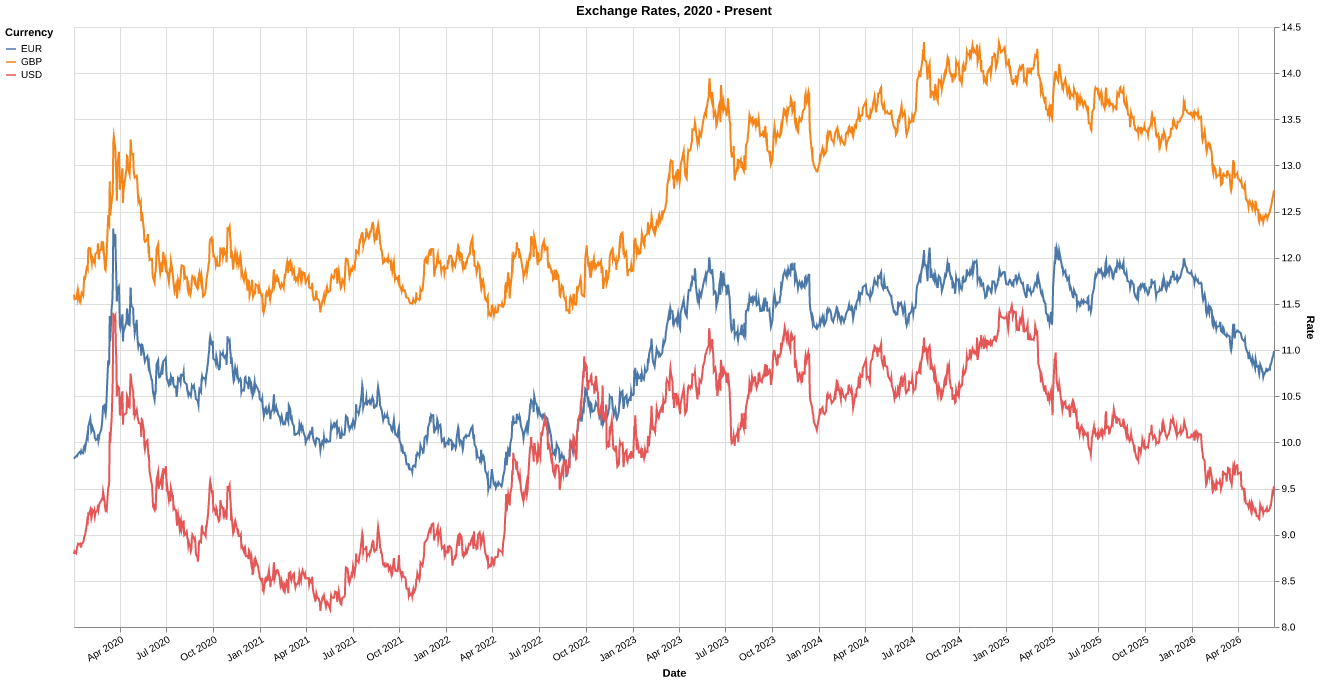
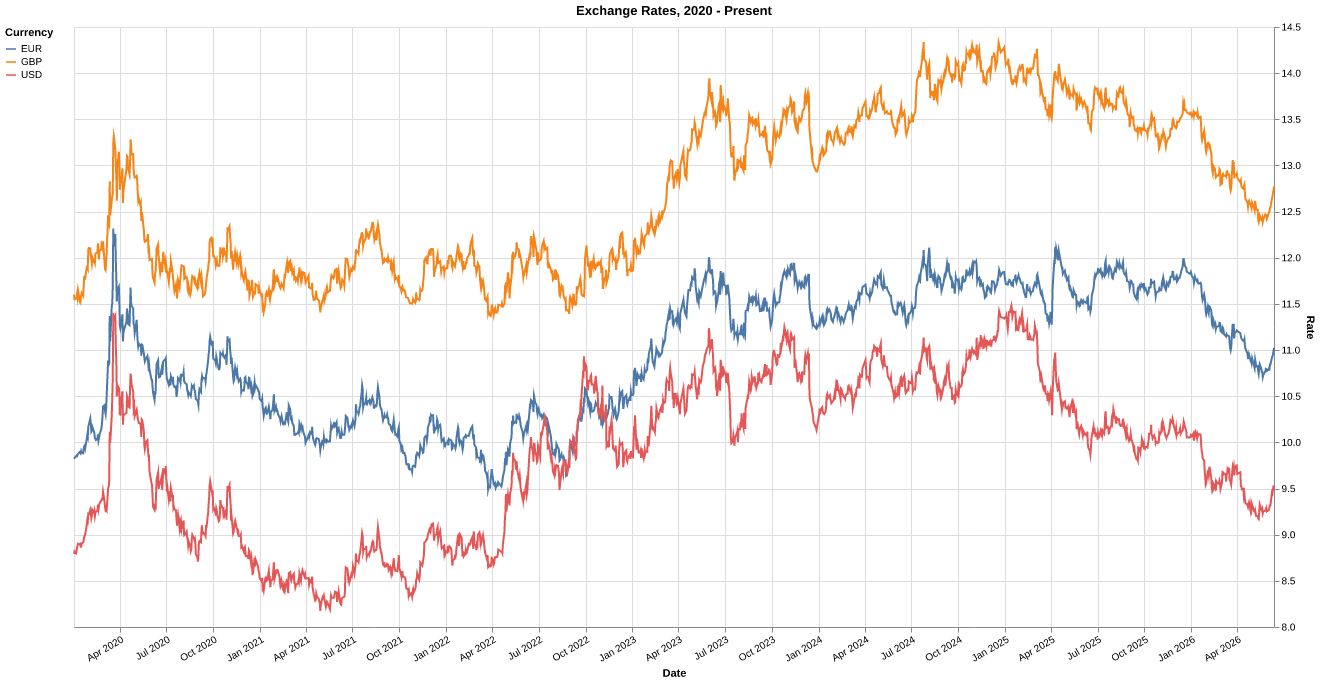
Scheduled data update

diff --git a/README.md b/README.md
@@ -12,10 +12,10 @@ The datasets in this repository are automaticly updated every day at **2:05 AM**
 <!-- table starts -->
 |Dataset|Source|Date Range|Updated|Download|Preview|
 | :--- | :--- | :--- | :--- | :--- | :--- |
-|[Mortgage](#mortgage)|Finansportalen|2021 - Present|2026-06-12|[<center>csv</center>](https://raw.githubusercontent.com/frefrik/norway-finance-statistics/master/data/no_mortgage.csv)|[<center>preview</center>](data/no_mortgage.csv)|
+|[Mortgage](#mortgage)|Finansportalen|2021 - Present|2026-06-13|[<center>csv</center>](https://raw.githubusercontent.com/frefrik/norway-finance-statistics/master/data/no_mortgage.csv)|[<center>preview</center>](data/no_mortgage.csv)|
 |[Key policy rate](#key-policy-rate)|Norges Bank|1991 - Present|2026-06-12|[<center>csv</center>](https://raw.githubusercontent.com/frefrik/norway-finance-statistics/master/data/no_keyPolicyRate.csv)|[<center>preview</center>](data/no_keyPolicyRate.csv)|
-|[NOWA](#nowa---norwegian-overnight-weighted-average)|Norges Bank|2011 - Present|2026-06-12|[<center>csv</center>](https://raw.githubusercontent.com/frefrik/norway-finance-statistics/master/data/no_nowa.csv)|[<center>preview</center>](data/no_nowa.csv)|
-|[Exchange Rates](#exchange-rates)|Norges Bank|1980 - Present|2026-06-12|[<center>csv</center>](https://raw.githubusercontent.com/frefrik/norway-finance-statistics/master/data/no_exchangeRates.csv)|[<center>preview</center>](data/no_exchangeRates.csv)|
+|[NOWA](#nowa---norwegian-overnight-weighted-average)|Norges Bank|2011 - Present|2026-06-13|[<center>csv</center>](https://raw.githubusercontent.com/frefrik/norway-finance-statistics/master/data/no_nowa.csv)|[<center>preview</center>](data/no_nowa.csv)|
+|[Exchange Rates](#exchange-rates)|Norges Bank|1980 - Present|2026-06-13|[<center>csv</center>](https://raw.githubusercontent.com/frefrik/norway-finance-statistics/master/data/no_exchangeRates.csv)|[<center>preview</center>](data/no_exchangeRates.csv)|
 |[Inflation Indicators (CPI)](#inflation-indicators-cpi)|Norges Bank|2006 - Present|2026-06-10|[<center>csv</center>](https://raw.githubusercontent.com/frefrik/norway-finance-statistics/master/data/no_cpi.csv)|[<center>preview</center>](data/no_cpi.csv)|
 <!-- table ends -->
 